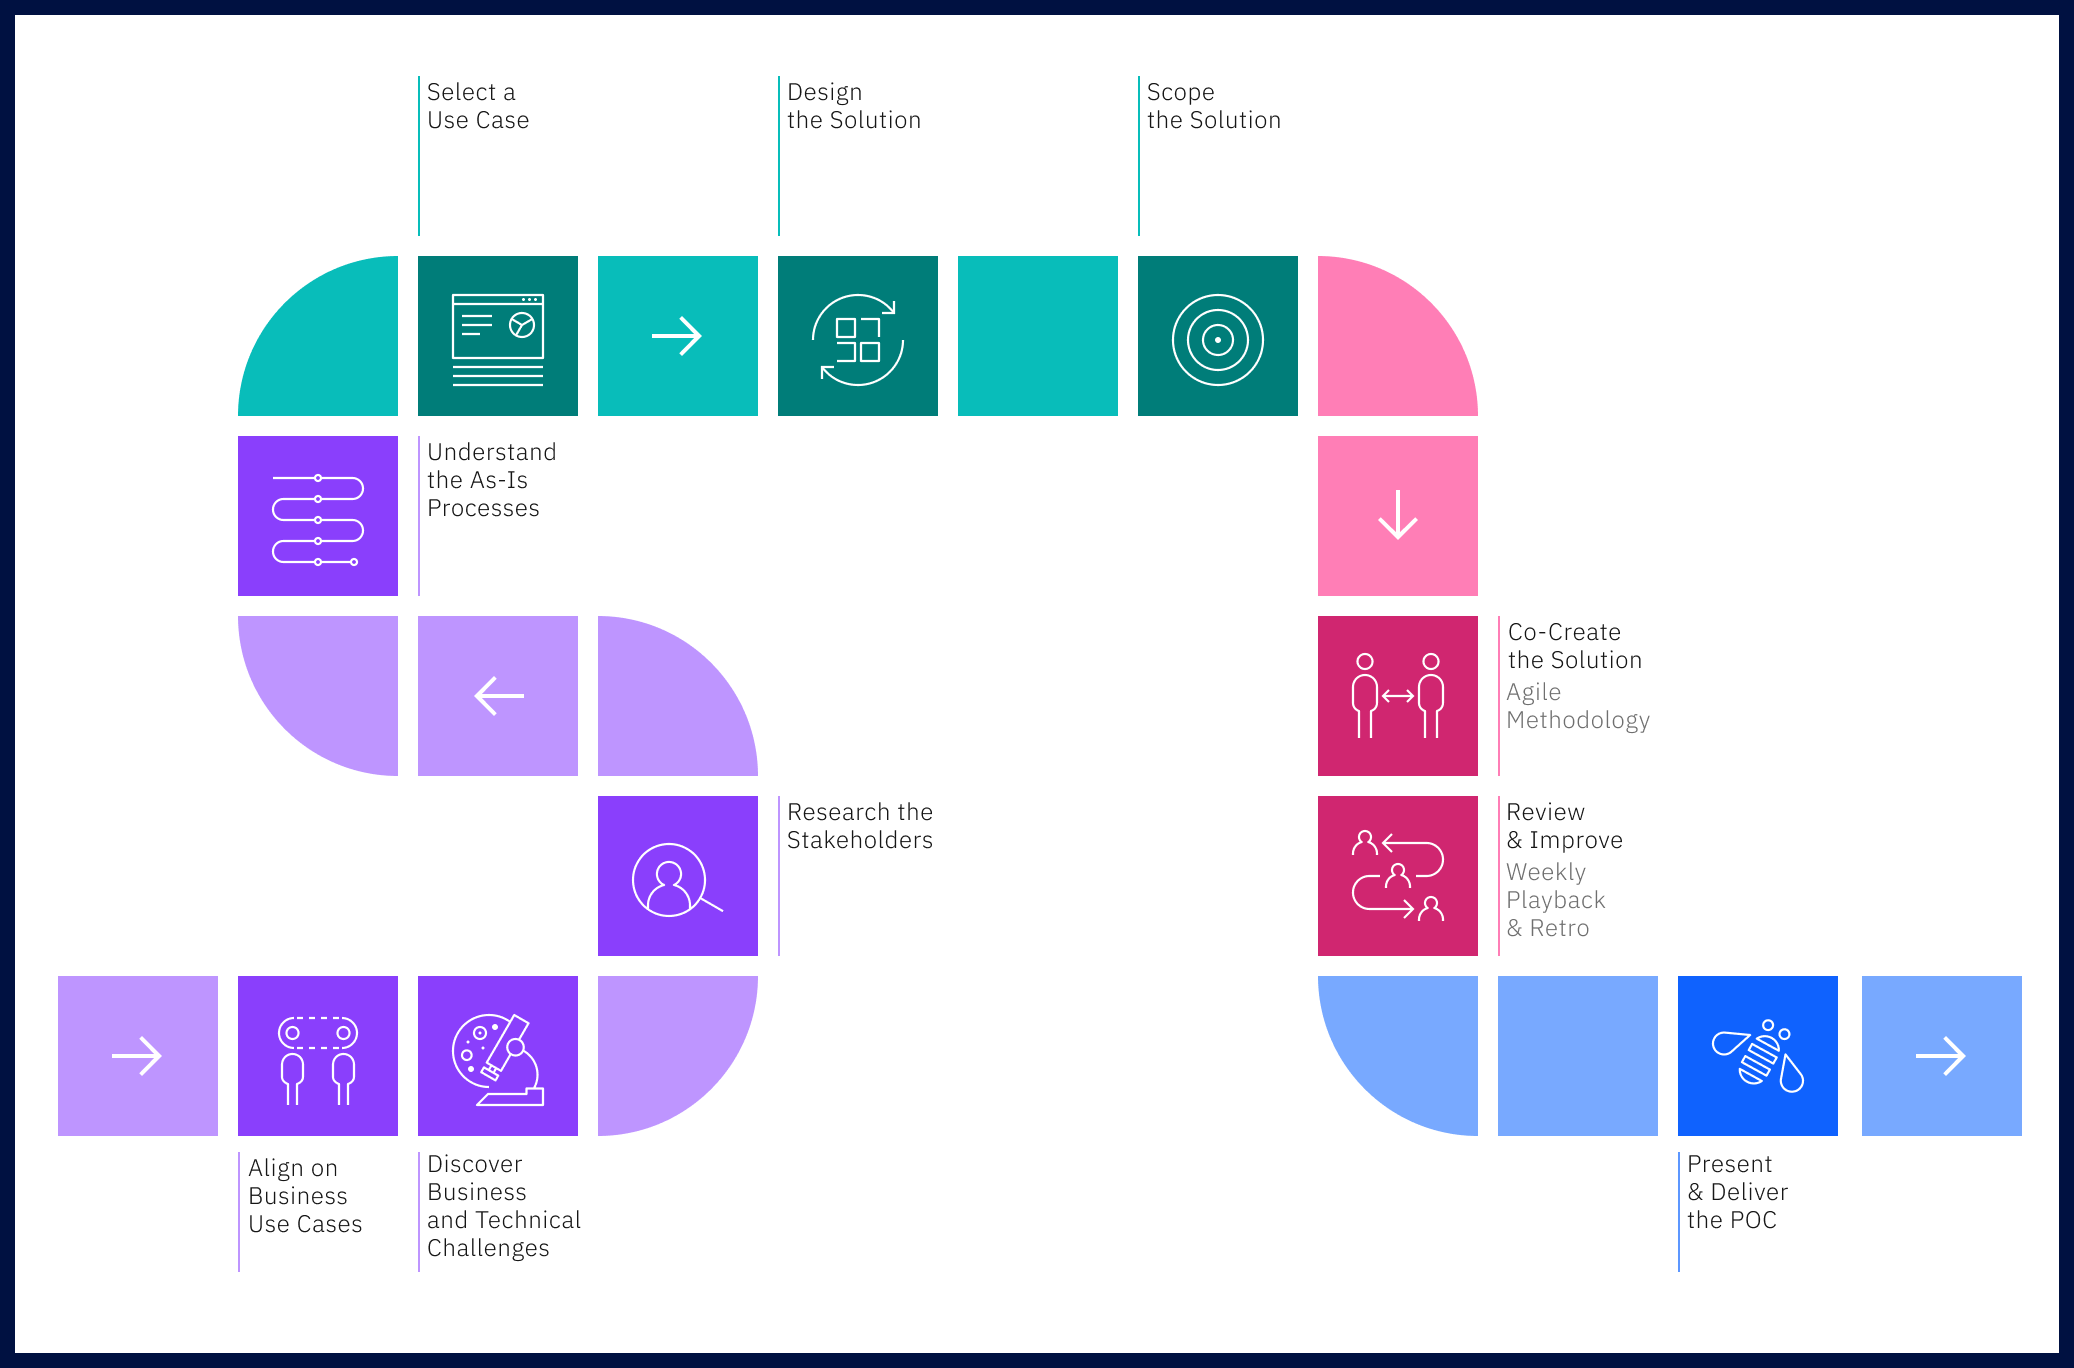
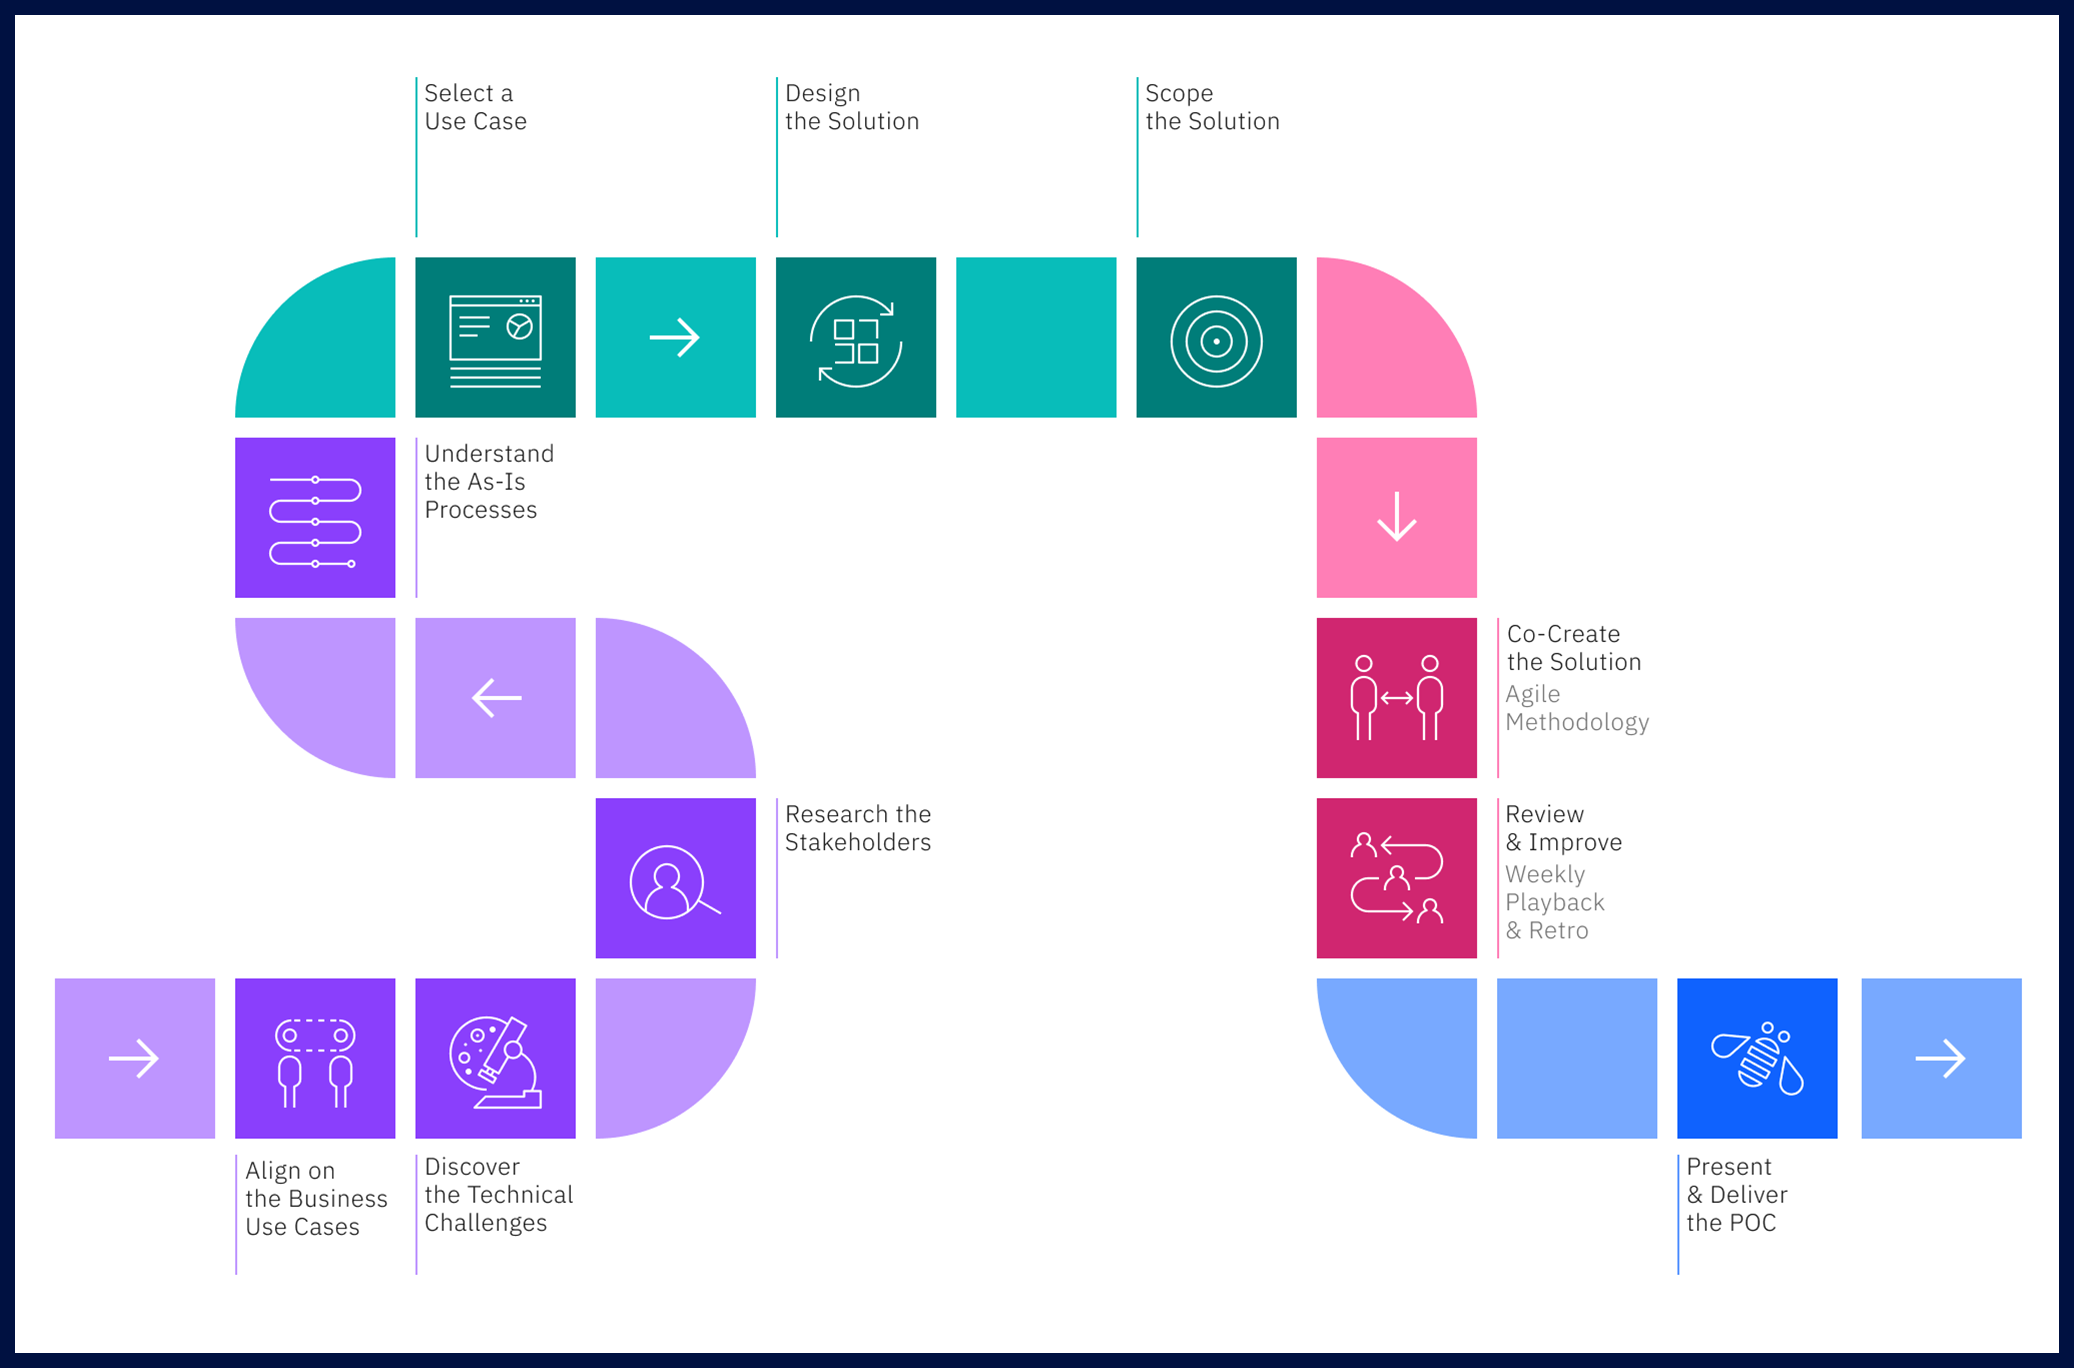
Research_Use_case

diff --git a/project_InnovationDesignerIBM.html b/project_InnovationDesignerIBM.html
@@ -49,7 +49,7 @@
 								
 								<div class="box">
 									<h4>Summary</h4><!--Explain the problem, the goal, the results-->
-									<p><b><i>Foreword: As I'm subject to a non-disclosure agreement for my projects at IBM, here's a presentation of my methodology for a typical project as an Innovation Designer in IBM Client Engineering.</i></b>
+									<p><span style="color: #0f62fe; font-weight:bold; font-style:italic;">Foreword: As I'm subject to a non-disclosure agreement for my projects at IBM, here's a presentation of my methodology for a typical project as an Innovation Designer in IBM Client Engineering.</span>
 										<br><br>
 										The role of Innovation Designer at IBM Client Engineering is to drive adoption to maximize the impact of IBM technologies for clients. Through workshops and co-creation, Innovation Designers identify challenges and opportunities that clients face to develop solutions addressing their needs and market demands. To achieve their objectives, they use a methodology that incorporates various design approaches, such as user research, collaborative design, and lean UX design. They then collaborate with cross-functional teams composed of developers, solution architects, and data scientists to build proof of concepts showcasing value to the client. Finally, they utilize storytelling to develop a narrative that allows clients and their executives to fully understand the solution and its benefits, promoting its implementation.										
 									</p>
@@ -61,27 +61,33 @@
 								</div>
 								<h2>Context</h2>
 								<p>Client Engineering is a pre-sales team of multi-disciplinary experts that collaborates with clients to co-create and implement innovative solutions using IBM’s technologies. In just a few weeks, a project team can identify 	and research a use case, define a solution, and develop it to deliver value.
+									<br><br>
+									<i>As this is not a specific solution but rather a methodology, this “project” does not contain any particular context or data specific to a client engagement. However, the processes of research, solution definition, co-creation, and delivery of value will be explained to communicate my design approach as an Innovation Designer.
 									<br>
-									As this is not a specific solution but rather a methodology, this “project” does not contain any particular context or data specific to a client engagement. However, the processes of research, solution definition, co-creation, and delivery of value will be explained to communicate my design approach as an Innovation Designer.
-									<br>
-									The images and visuals presented below consist of screenshots of unfilled activities and anonymized flows and diagrams that have been used and/or produced in the context of various customer engagements. They do not originate from a single project.
+									The images and visuals presented below consist of screenshots of unfilled activities and anonymized flows and diagrams that have been used and/or produced in the context of various customer engagements. They do not originate from a single project.</i>
+									<br><br>
+									[Insert simple flow of the steps]
 								</p>
 								<hr />
 								<h2>Research the Use Case</h2>
-								<h3>Align on Business Use Case</h3>
-								<p>[In progress]<br>
+								<p>Based on a business opportunity identified by the sales team, the Client Engineering team prepares for its first meeting with the client. The designer's role is to develop and personalize design thinking activities to enable the team to fully understand the customer's pain points and challenges.
+								<br>
+								Depending on the project, research activities and/or workshops (remote, in-person, or hybrid) are conducted with the client's project teams. Here are the main topics of these workshops:
 								</p>
-								<h3>Discover Business & Technical Challenges</h3>
+								<h3>Align on the Business Use Case</h3>
+								<p>To make sure that the business objectives of the client match the potential technology that the sales team identified, it’s often necessary to conduct activities such as the Business Landscape, the Opportunity Exploration/Prioritization, Business Opportunity Statement, etc.<br>
+								</p>
+								<h3>Discover the Technical Challenges</h3>
 								<p>
-									[In progress]
+									To understand the different technologies that the client currently uses how the technical solution could be integrated, the team needs to understand the client’s technical environment. The designer assists the Solution Architect to capture the technical architecture of the different systems and technologies in place, as well as the data that will be used and/or affected by the solution.
 								</p>
 								<h3>Research the Stakeholders</h3>
 								<p>
-									[In progress]
+									Whether a technological solution is highly technical or not, it is essential for the designer to understand its users, as there is always a person who will interact with or be affected by it. Depending on the needs of the project, the designer may seek to understand users by facilitating activities such as Stakeholder Mapping and Empathy Mapping. They may also conduct ethnography sessions or interview users to understand their goals, needs, and challenges.
 								</p>
 								<h3>Understand the As-Is Processes</h3>
 								<p>
-									[In progress]
+									Finally, activities like the As-Is Process Discovery are run conjointly by the designer and the technical team to understand the flow of how the business case, the technologies and stakeholders interact and where the challenges are.
 								</p>
 								<hr />
 								<h2>Define the Proof of Concept</h2>
